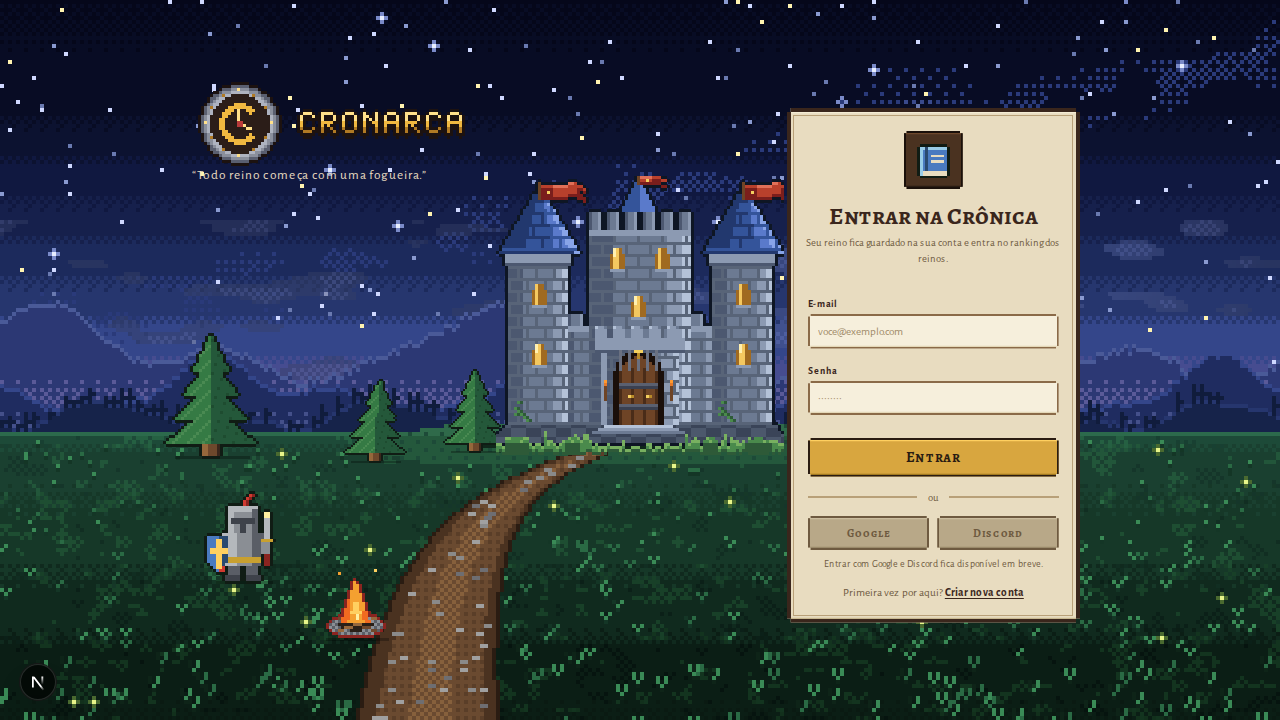
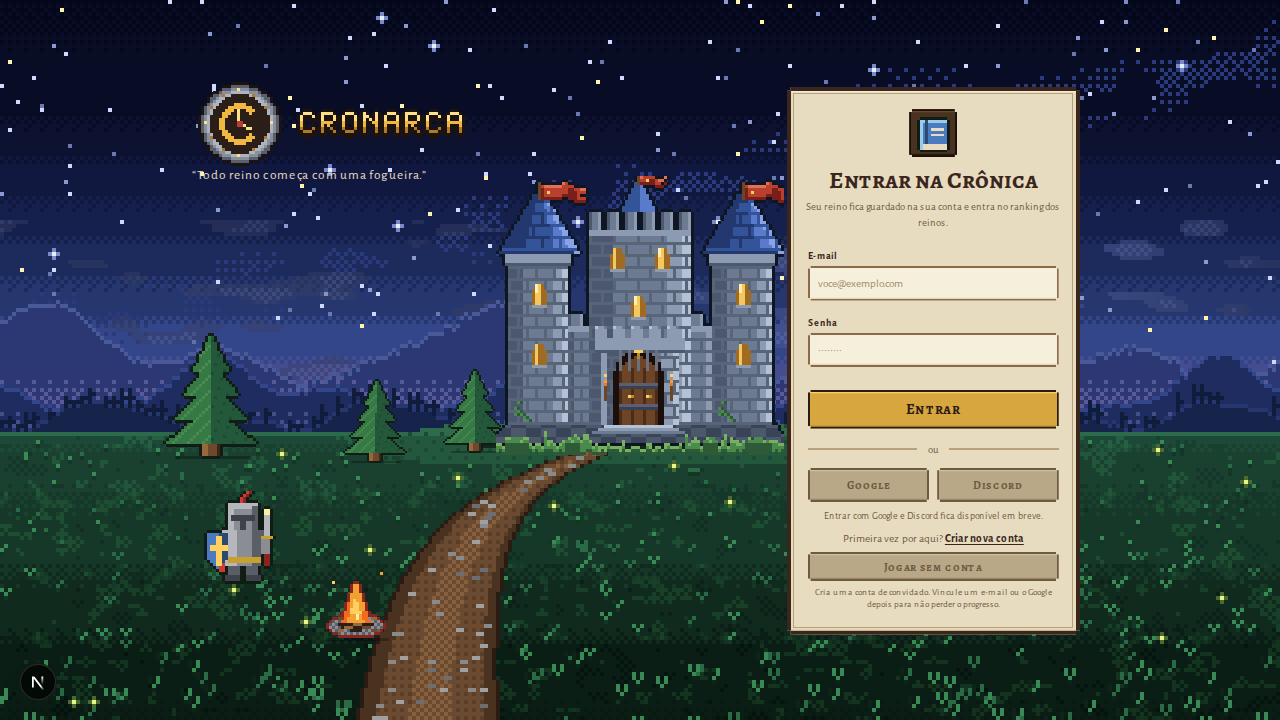
Portão A: bloco de título acima do topo do castelo em escalas menores
Em u < 6 o arredondamento do castelo (round(4·u/6)) o fazia crescer e as bandeiras
encostavam no subtítulo. O bloco (logo, subtítulo, fios e losango) agora fica acima
do topo renderizado das bandeiras, com folga mínima de 8·z; se não couber, sobe, e
depois a logo cai de escala. A escala do castelo não muda. blocoDoTitulo em
cena/escala.ts (o script do <head> repete a conta); testes e capturas.

diff --git a/apps/frontend/components/cena/escala.ts b/apps/frontend/components/cena/escala.ts
@@ -38,6 +38,69 @@ export const pixelsDeTelaPorPixelDeArte = (k: number, u: number): number => Math
  */
 export const pixelsDoFramePorPixelDeArte = (k: number, u: number): number => (pixelsDeTelaPorPixelDeArte(k, u) * PIXEL_DO_FIGMA) / u;
 
+/**
+ * Bloco de título do Início (logo, subtítulo e ornamentos) acima do topo RENDERIZADO do castelo.
+ * Em escalas menores o arredondamento (round(4·u/6)) faz o castelo crescer além da proporção do palco e as
+ * bandeiras (que tocam a linha 0 do quadro de 96 x 96, medido nos 8 quadros) chegariam ao subtítulo.
+ * Regra: folga mínima de 8 px do frame (8·z na tela, z = u/6) entre a base do ornamento mais baixo
+ * (o losango) e o topo do castelo. Se o bloco não couber no palco, ele sobe; se a logo passaria de
+ * TITULO_TOPO_MIN, a logo cai para a escala k seguinte (4, 3, 2). A escala do castelo não muda.
+ * Medidas em px do frame de 1440 x 900; o castelo tem o pé em y = 606 (y 222 + 96 x 4) e 96 px de arte.
+ */
+export const CASTELO_PE = 606;
+export const CASTELO_ARTE = 96;
+export const BLOCO_FOLGA = 8;
+/** Base do ornamento mais baixo (losango, 188 + 10) no desenho do Figma. */
+export const BLOCO_BASE_NOMINAL = 198;
+/** Distâncias acima da base do bloco (px do frame): topo do losango, do fio e do subtítulo; a logo termina 46 acima. */
+export const BLOCO_LOSANGO = 10;
+export const BLOCO_FIO = 6;
+export const BLOCO_SUBTITULO = 44;
+export const BLOCO_LOGO_ACIMA = 46;
+export const LOGO_ARTE_ALTURA = 32;
+export const TITULO_TOPO_MIN = 8;
+export const ESCALAS_DA_LOGO = [4, 3, 2] as const;
+
+export interface BlocoDoTitulo {
+  /** Px do frame: base do bloco (losango), topo do losango, do fio, do subtítulo e da logo. */
+  base: number;
+  topoLosango: number;
+  topoFio: number;
+  topoSubtitulo: number;
+  topoLogo: number;
+  /** Px do frame por pixel de arte da logo (--logo-e) e o k escolhido. */
+  logoE: number;
+  logoK: number;
+  /** Topo do castelo renderizado e folga real até a base do bloco, em px do frame. */
+  topoCastelo: number;
+  folga: number;
+}
+
+export function blocoDoTitulo(u: number): BlocoDoTitulo {
+  const z = u / PIXEL_DO_FIGMA;
+  const topoCastelo = CASTELO_PE - CASTELO_ARTE * pixelsDoFramePorPixelDeArte(4, u);
+  const base = Math.min(BLOCO_BASE_NOMINAL, Math.floor((topoCastelo - BLOCO_FOLGA) * z) / z);
+  let logoK: number = ESCALAS_DA_LOGO[ESCALAS_DA_LOGO.length - 1]!;
+  for (const k of ESCALAS_DA_LOGO) {
+    if (base - BLOCO_LOGO_ACIMA - LOGO_ARTE_ALTURA * pixelsDoFramePorPixelDeArte(k, u) >= TITULO_TOPO_MIN) {
+      logoK = k;
+      break;
+    }
+  }
+  const logoE = pixelsDoFramePorPixelDeArte(logoK, u);
+  return {
+    base,
+    topoLosango: base - BLOCO_LOSANGO,
+    topoFio: base - BLOCO_FIO,
+    topoSubtitulo: base - BLOCO_SUBTITULO,
+    topoLogo: base - BLOCO_LOGO_ACIMA - LOGO_ARTE_ALTURA * logoE,
+    logoE,
+    logoK,
+    topoCastelo,
+    folga: topoCastelo - base,
+  };
+}
+
 /** Roda no <head>, antes da primeira pintura, e a cada redimensionamento. Mesma conta das funções acima. */
 export const SCRIPT_ESCALA = `(function(){
 function f(){
@@ -47,6 +110,17 @@ var s=document.documentElement.style;
 s.setProperty('--u',u+'px');s.setProperty('--z',String(u/${PIXEL_DO_FIGMA}));
 var ks=[${ESCALAS_K.join(',')}];
 for(var i=0;i<ks.length;i++){var n=Math.max(1,Math.round(ks[i]*u/${PIXEL_DO_FIGMA}));s.setProperty('--e'+ks[i],String(n*${PIXEL_DO_FIGMA}/u));}
+var z=u/${PIXEL_DO_FIGMA};
+function e(k){return Math.max(1,Math.round(k*u/${PIXEL_DO_FIGMA}))*${PIXEL_DO_FIGMA}/u;}
+var tc=${CASTELO_PE}-${CASTELO_ARTE}*e(4);
+var b=Math.min(${BLOCO_BASE_NOMINAL},Math.floor((tc-${BLOCO_FOLGA})*z)/z);
+var ls=[${ESCALAS_DA_LOGO.join(',')}],le=e(ls[ls.length-1]);
+for(var j=0;j<ls.length;j++){if(b-${BLOCO_LOGO_ACIMA}-${LOGO_ARTE_ALTURA}*e(ls[j])>=${TITULO_TOPO_MIN}){le=e(ls[j]);break;}}
+s.setProperty('--logo-e',String(le));
+s.setProperty('--bloco-logo',(b-${BLOCO_LOGO_ACIMA}-${LOGO_ARTE_ALTURA}*le)+'px');
+s.setProperty('--bloco-sub',(b-${BLOCO_SUBTITULO})+'px');
+s.setProperty('--bloco-fio',(b-${BLOCO_FIO})+'px');
+s.setProperty('--bloco-losango',(b-${BLOCO_LOSANGO})+'px');
 }
 f();addEventListener('resize',f);
 })();`;

diff --git a/apps/frontend/test/cena.test.ts b/apps/frontend/test/cena.test.ts
@@ -4,7 +4,7 @@ import { join } from 'node:path';
 import { animacao } from '@cronarca/game-core';
 import { CENA_INICIO, CENA_LOGIN, ESCALAS_DA_CENA, JANELA_NO_FUNDO, SPRITES_DA_CENA, ladoDaArte } from '../components/cena/dados';
 import { lerPng } from './png';
-import { ESCALAS_K, SCRIPT_ESCALA, escalaDaTela, pixelsDeTelaPorPixelDeArte } from '../components/cena/escala';
+import { BLOCO_FOLGA, CASTELO_ARTE, CASTELO_PE, ESCALAS_K, SCRIPT_ESCALA, TITULO_TOPO_MIN, blocoDoTitulo, escalaDaTela, pixelsDeTelaPorPixelDeArte } from '../components/cena/escala';
 
 const PUBLIC = join(__dirname, '..', 'public');
 const desenhos = (d: typeof CENA_INICIO) => [...d.sprites, ...d.celular.sprites];
@@ -136,6 +136,51 @@ describe('cena: fundo largo', () => {
       const u = escalaDaTela(w!, h!);
       expect(420 * u, `${w}x${h} largura`).toBeGreaterThanOrEqual(w!);
       expect(210 * u, `${w}x${h} altura`).toBeGreaterThanOrEqual(h!);
+    }
+  });
+});
+
+describe('cena: bloco de título acima do castelo (u < 6)', () => {
+  it('constantes do castelo batem com dados.ts e as bandeiras tocam a linha 0 dos 8 quadros', () => {
+    const c = CENA_INICIO.sprites.find((s) => s.nome === 'castelo')!;
+    expect(c.y + ladoDaArte('castelo') * c.k).toBe(CASTELO_PE);
+    expect(ladoDaArte('castelo')).toBe(CASTELO_ARTE);
+    for (let i = 1; i <= 8; i++) {
+      const png = lerPng(`/sprites/cena/castelo_${i}.png`);
+      let topo = -1;
+      for (let y = 0; y < png.altura && topo < 0; y++) for (let x = 0; x < png.largura; x++) if (png.dados[(y * png.largura + x) * 4 + 3]! > 0) { topo = y; break; }
+      expect(topo, `quadro ${i}`).toBe(0);
+    }
+  });
+  it('em u = 6 o bloco é o do Figma', () => {
+    const b = blocoDoTitulo(6);
+    expect([b.topoLogo, b.topoSubtitulo, b.topoFio, b.topoLosango, b.logoK]).toEqual([24, 154, 192, 188, 4]);
+  });
+  it('de u = 3 a 8: folga mínima de 8 px do frame, logo dentro do palco e castelo na escala de sempre', () => {
+    for (let u = 3; u <= 8; u++) {
+      const b = blocoDoTitulo(u);
+      expect(b.folga, `u=${u}`).toBeGreaterThanOrEqual(BLOCO_FOLGA);
+      expect(b.topoLogo, `u=${u}`).toBeGreaterThanOrEqual(TITULO_TOPO_MIN - 1e-9);
+      expect(b.topoCastelo).toBeCloseTo(CASTELO_PE - CASTELO_ARTE * ((pixelsDeTelaPorPixelDeArte(4, u) * 6) / u), 9);
+    }
+  });
+  it('u = 4 (1024x768, 1280x720): o bloco sobe e a logo cai um passo, sem mexer no castelo', () => {
+    const b = blocoDoTitulo(4);
+    expect(b.base).toBeLessThan(198);
+    expect(b.logoK).toBe(3);
+    expect(pixelsDeTelaPorPixelDeArte(4, 4)).toBe(3);
+  });
+  it('o script do <head> calcula o mesmo bloco', () => {
+    for (const [w, h] of [[1024, 768], [1280, 720], [1440, 900], [1920, 1080], [2560, 1080]]) {
+      const props: Record<string, string> = {};
+      const doc = { documentElement: { style: { setProperty: (k: string, v: string) => (props[k] = v) } } };
+      new Function('document', 'innerWidth', 'innerHeight', 'addEventListener', SCRIPT_ESCALA)(doc, w, h, () => {});
+      const b = blocoDoTitulo(escalaDaTela(w!, h!));
+      expect(Number(props['--logo-e'])).toBeCloseTo(b.logoE, 9);
+      expect(parseFloat(props['--bloco-logo']!)).toBeCloseTo(b.topoLogo, 9);
+      expect(parseFloat(props['--bloco-sub']!)).toBeCloseTo(b.topoSubtitulo, 9);
+      expect(parseFloat(props['--bloco-fio']!)).toBeCloseTo(b.topoFio, 9);
+      expect(parseFloat(props['--bloco-losango']!)).toBeCloseTo(b.topoLosango, 9);
     }
   });
 });

diff --git a/apps/frontend/app/inicio.module.css b/apps/frontend/app/inicio.module.css
@@ -2,28 +2,31 @@
 
 /* Cabeçalho nas posições do Figma v2 (Tela inicial v2): logo em y = 24, subtítulo em 154 e ornamentos em
    188 a 198, acima do castelo (que começa em 222). A logo (selo + nome, arte de 91 x 32) fica a 4x:
-   364 x 128, em pixel inteiro de tela (--e4, de cena/escala.ts), em vez dos 6x de antes. */
+   364 x 128, em pixel inteiro de tela (--e4, de cena/escala.ts), em vez dos 6x de antes.
+   Regra das escalas menores (u < 6): o bloco (logo, subtítulo, fios e losango) fica acima do topo renderizado do
+   castelo, com folga mínima de 8 px do frame (8·z na tela). --bloco-* e --logo-e vêm de blocoDoTitulo
+   (cena/escala.ts), calculados no script de escala; em 1440x900 valem os números do Figma (os padrões abaixo). */
 .titulo {
   position: absolute;
   left: 0;
-  top: 24px;
+  top: var(--bloco-logo, 24px);
   width: 1440px;
-  height: calc(32 * var(--e4) * 1px);
+  height: calc(32 * var(--logo-e, var(--e4)) * 1px);
   margin: 0;
   line-height: 0;
   text-align: center;
 }
 
 .logo {
-  width: calc(91 * var(--e4) * 1px);
-  height: calc(32 * var(--e4) * 1px);
+  width: calc(91 * var(--logo-e, var(--e4)) * 1px);
+  height: calc(32 * var(--logo-e, var(--e4)) * 1px);
   image-rendering: pixelated;
 }
 
 .subtitulo {
   position: absolute;
   left: 0;
-  top: 154px;
+  top: var(--bloco-sub, 154px);
   width: 1440px;
   margin: 0;
   font-size: 26px;
@@ -34,7 +37,7 @@
 
 .fio {
   position: absolute;
-  top: 192px;
+  top: var(--bloco-fio, 192px);
   width: 140px;
   height: 3px;
   background: var(--ouro);
@@ -43,7 +46,7 @@
 .losango {
   position: absolute;
   left: 700px;
-  top: 188px;
+  top: var(--bloco-losango, 188px);
   width: 40px;
   height: 10px;
   background: var(--ouro);
